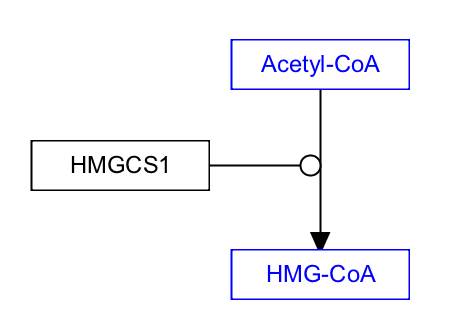
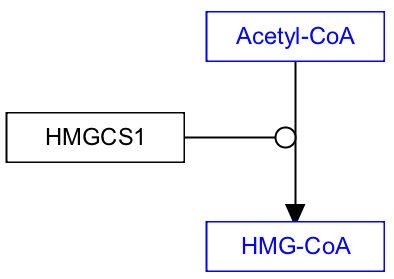
updated description, image

Changed region(s): [[0.0, 0.0287, 0.9746, 0.9749]]

diff --git a/stages/met-1-first/index.html b/stages/met-1-first/index.html
@@ -44,15 +44,23 @@
 
           <h2>Background</h2>
 
-          <p>To-Do</p>
+          <p>Cholesterol is a waxy steroid metabolite found in the cell membranes and transported in the blood plasma of all animals. 
+          It is an essential structural component of mammalian cell membranes, where it is required to establish proper membrane 
+          permeability and fluidity. In addition, cholesterol is an important component for the manufacture of bile acids, steroid 
+          hormones, and several fat-soluble vitamins. Cholesterol is the principal sterol synthesized by animals, but small 
+          quantities are synthesized in other eukaryotes, such as plants and fungi. It is almost completely absent among prokaryotes, 
+          which include bacteria. Source: <a href="https://en.wikipedia.org/wiki/Cholesterol">Wikipedia</a></p>
 
           <h2>Your Mission</h2>
-          <p>To-Do</p>
-          
+          <p>Complete the first step of the Cholesterol biosynthesis pathway, the conversion of Acetyl-CoA to HMG-CoA, catalyzed by 
+          HMGCS1. The complete reaction is depicted in this figure:</p>
+          <img src="met-1-step-1-solution.png">
+          <br>
+          <br>
           
           <ul>
-            <li>To complete this challenge, click the "Launch Editor" button below. You will receive your challenge as a file named "WikiPathwaysAcademy-Met1-step1.jnlp". 
-              Open it to see your control panel.</li>
+            <li>To complete this challenge, click the "Launch Editor" button below. You will receive your challenge as a file named "WikiPathwaysAcademy-met1-first.jnlp". 
+              Open it to see your control panel. The two metabolites, Acetyl-CoA and HMG-CoA, and the conversion between them have already been added. Add the enzyme and the catalysis interaction. </li>
             <li>
             <details>
              <summary>Perform the challenge tasks...</summary>
@@ -60,7 +68,7 @@
                 <li>Select Gene from the Data Node palette in the Objects tab</li>
                 <li>Click on canvas to place the gene node</li>
                 <li>Double-click on node to open its properties</li>
-                <li>Search for “ACO2”; Choose any of the entries that just say “ACO2”; Click OK</li>
+                <li>Search for “HMGCS1”; Choose any of the entries that just say “HMGCS1”; Click OK</li>
                 <li>(Optional) Resize nodes or update node labels</li>
                 <li>Right-click on the conversion arrow and select “Add anchor”</li>
                 <li>Select the Catalysis arrow from the MIM interactions palette in the Objects tab</li>
@@ -138,7 +146,7 @@
             localStorage.setItem('showChallengeInstructions', 'false');
           }
           // server must set Content-Disposition: attachment
-          window.location = 'http://rcbranch.wikipathways.org/wpi/extensions/PathwayViewer/pathway-jnlp.php?identifier=WP3905&filename=WikiPathwaysAcademy-Met1-step1';
+          window.location = 'http://rcbranch.wikipathways.org/wpi/extensions/PathwayViewer/pathway-jnlp.php?identifier=WP3905&filename=WikiPathwaysAcademy-met1-first';
           getShowInstructions();
           setDownloadButton();
         });
